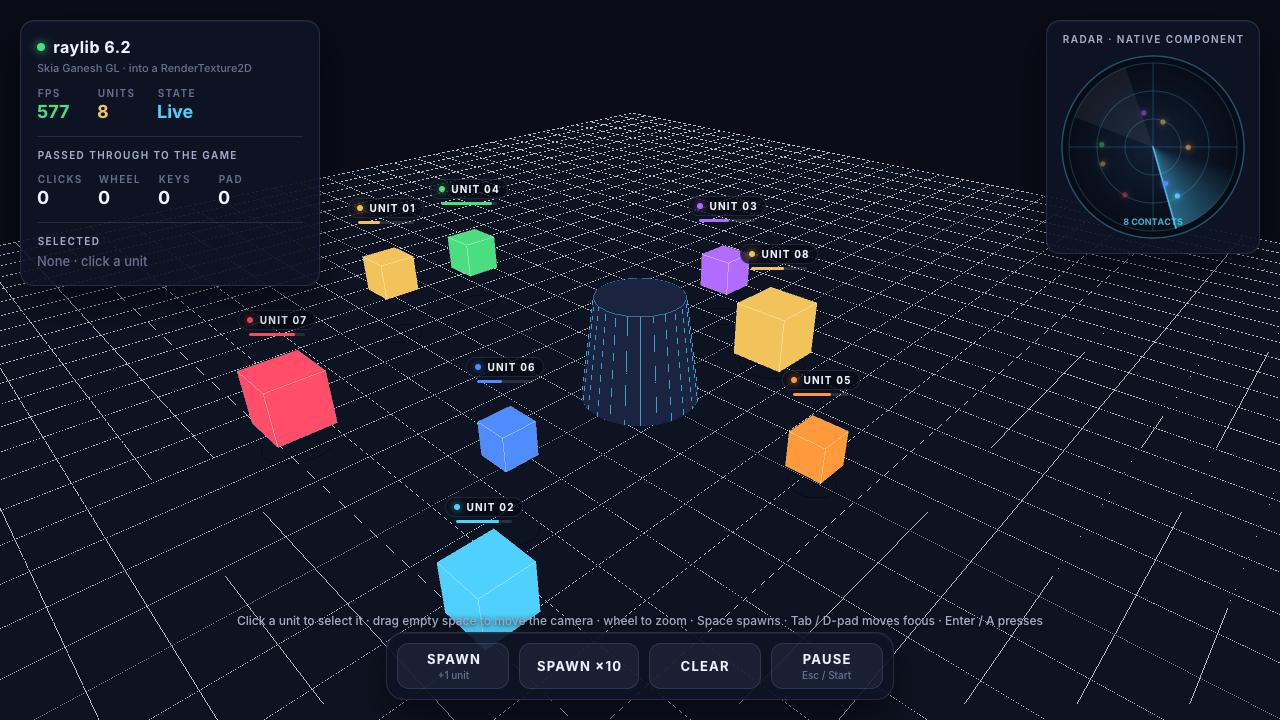
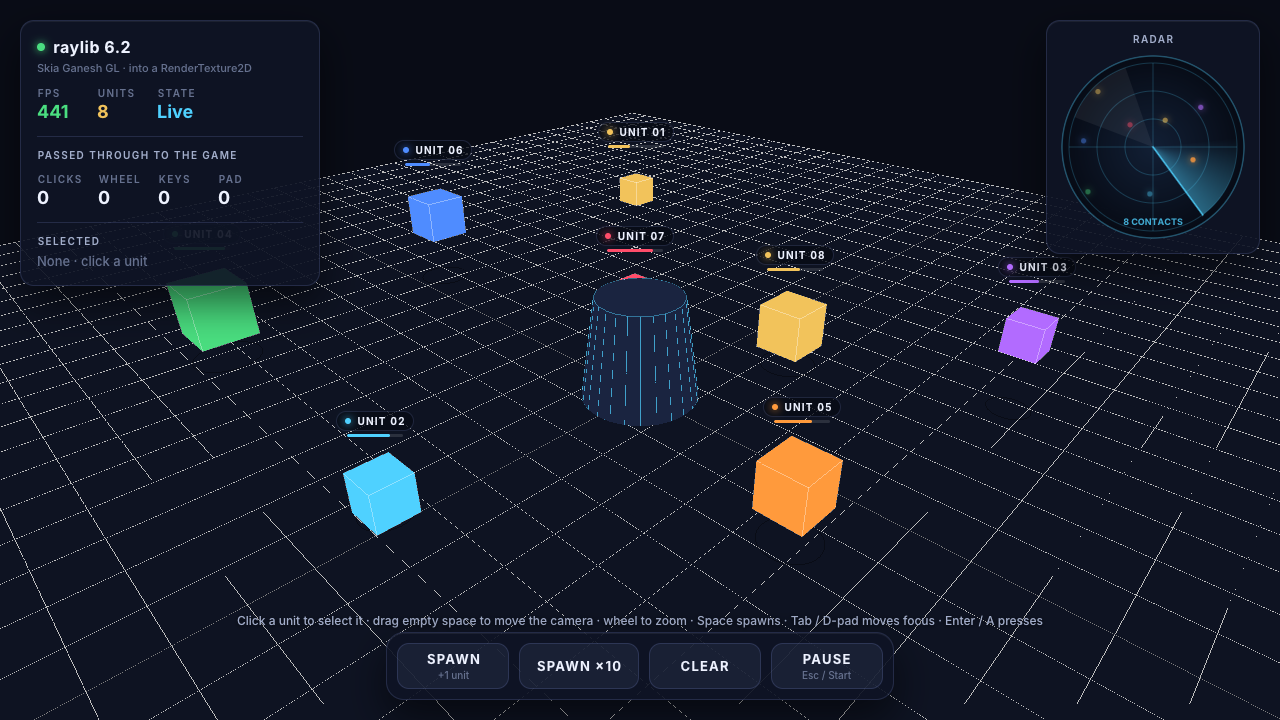
examples: label the HUD's radar panel just "Radar" (#218)
* examples: label the HUD's radar panel just "Radar"

"native component" read as jargon in the panel title.

Claude-Session: https://claude.ai/code/session_01Hn88H1bSz32dYCXa2LvQ24

* docs: recapture raylib, SDL3, sokol shots with the "Radar" label

---------

diff --git a/integrations/shared/ui/app.jsx b/integrations/shared/ui/app.jsx
@@ -163,7 +163,7 @@ const RadarPanel = memo(function RadarPanel({ selected }) {
   if (!hasNativeComponent('Radar')) return null;
   return (
     <View style={styles.radarPanel}>
-      <Text style={styles.sectionLabel}>Radar · native component</Text>
+      <Text style={styles.sectionLabel}>Radar</Text>
       <Pressable
         style={styles.radarPress}
         onPress={(e) => RadarCommands.select(ref.current, e.nativeEvent.locationX, e.nativeEvent.locationY, RADAR_SIZE)}
